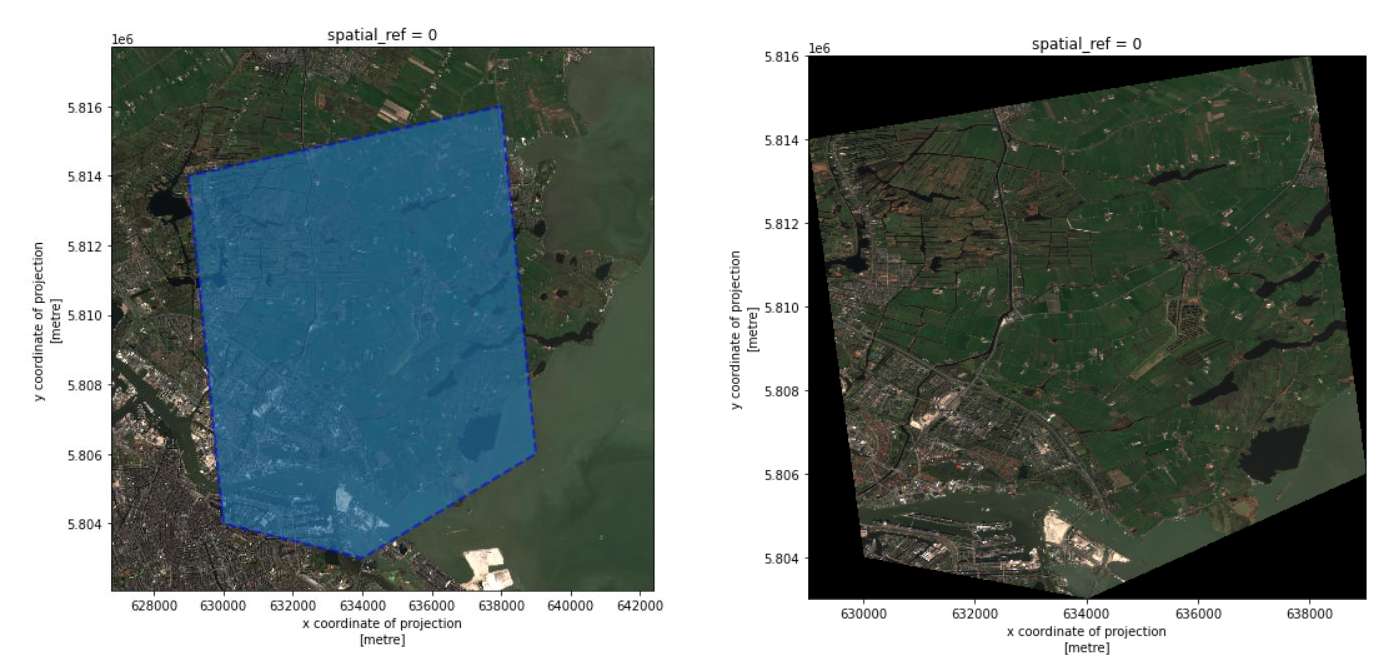
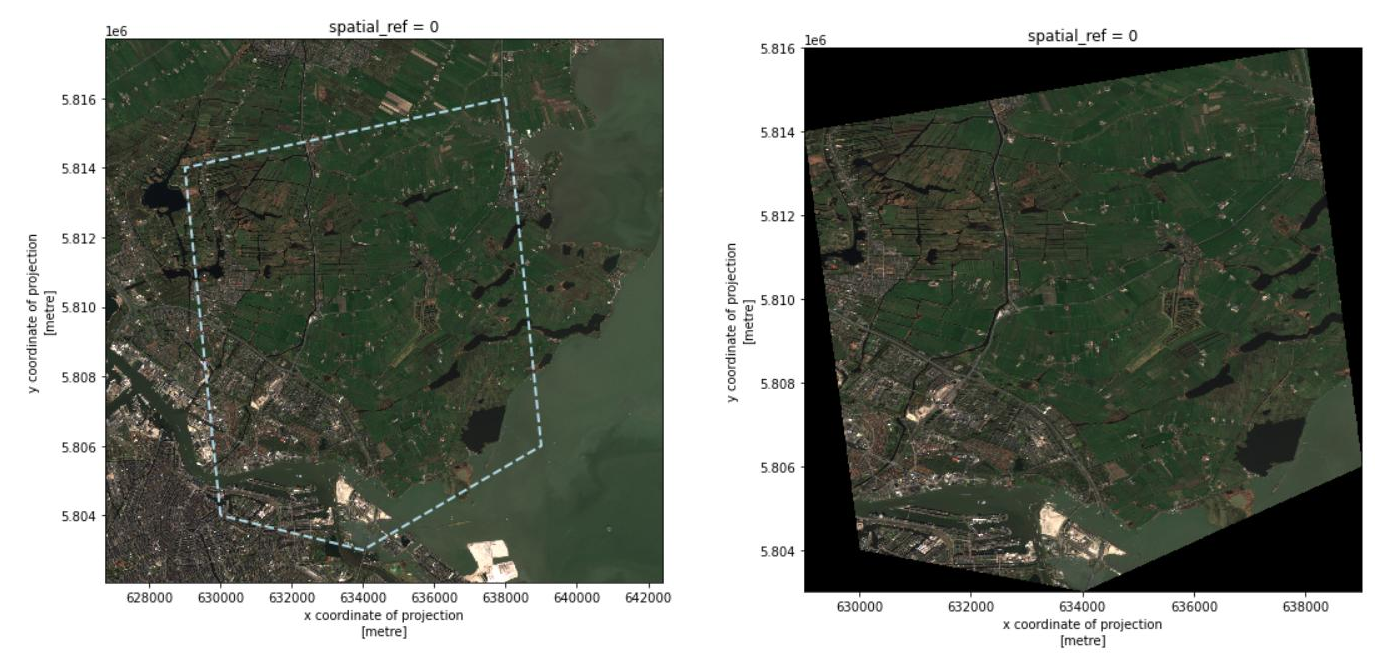
use polygon_geom instead of geodataframe

diff --git a/_episodes/20-crop-raster-data.md b/_episodes/20-crop-raster-data.md
@@ -193,28 +193,25 @@ It is common that the AoI is given by a polygon, which can be also used to crop 
 
 ~~~
 from shapely.geometry import Polygon
+from matplotlib import pyplot as plt
 
 # Create a polygon
 xlist= [630000, 629000, 638000, 639000, 634000, 630000]
 ylist = [5.804e6, 5.814e6, 5.816e6, 5.806e6, 5.803e6, 5.804e6]
 polygon_geom = Polygon(zip(xlist, ylist))
-polygon = gpd.GeoDataFrame(index=[0], crs=raster_clip.rio.crs, geometry=[polygon_geom])
 
 # Plot the polygon over raster
 fig, ax = plt.subplots()
 fig.set_size_inches((8,8))
 raster_clip.plot.imshow(ax=ax)
-polygon.plot(
-    ax=ax,
-    alpha=0.6,
-    color=None,
-    edgecolor="blue",
-    linewidth = 2,
-    linestyle = '--',
-)
+plt.plot(*polygon_geom.exterior.xy,
+         color="lightblue",
+         linewidth = 2,
+         linestyle = '--',
+        )
 
 # Crop and visualize
-raster_clip_polygon = raster_clip.rio.clip(polygon['geometry'], polygon.crs)
+raster_clip_polygon = raster_clip.rio.clip([polygon_geom], raster_clip.rio.crs)
 raster_clip_polygon.plot.imshow(figsize=(8,8))
 ~~~
 {: .language-python}
